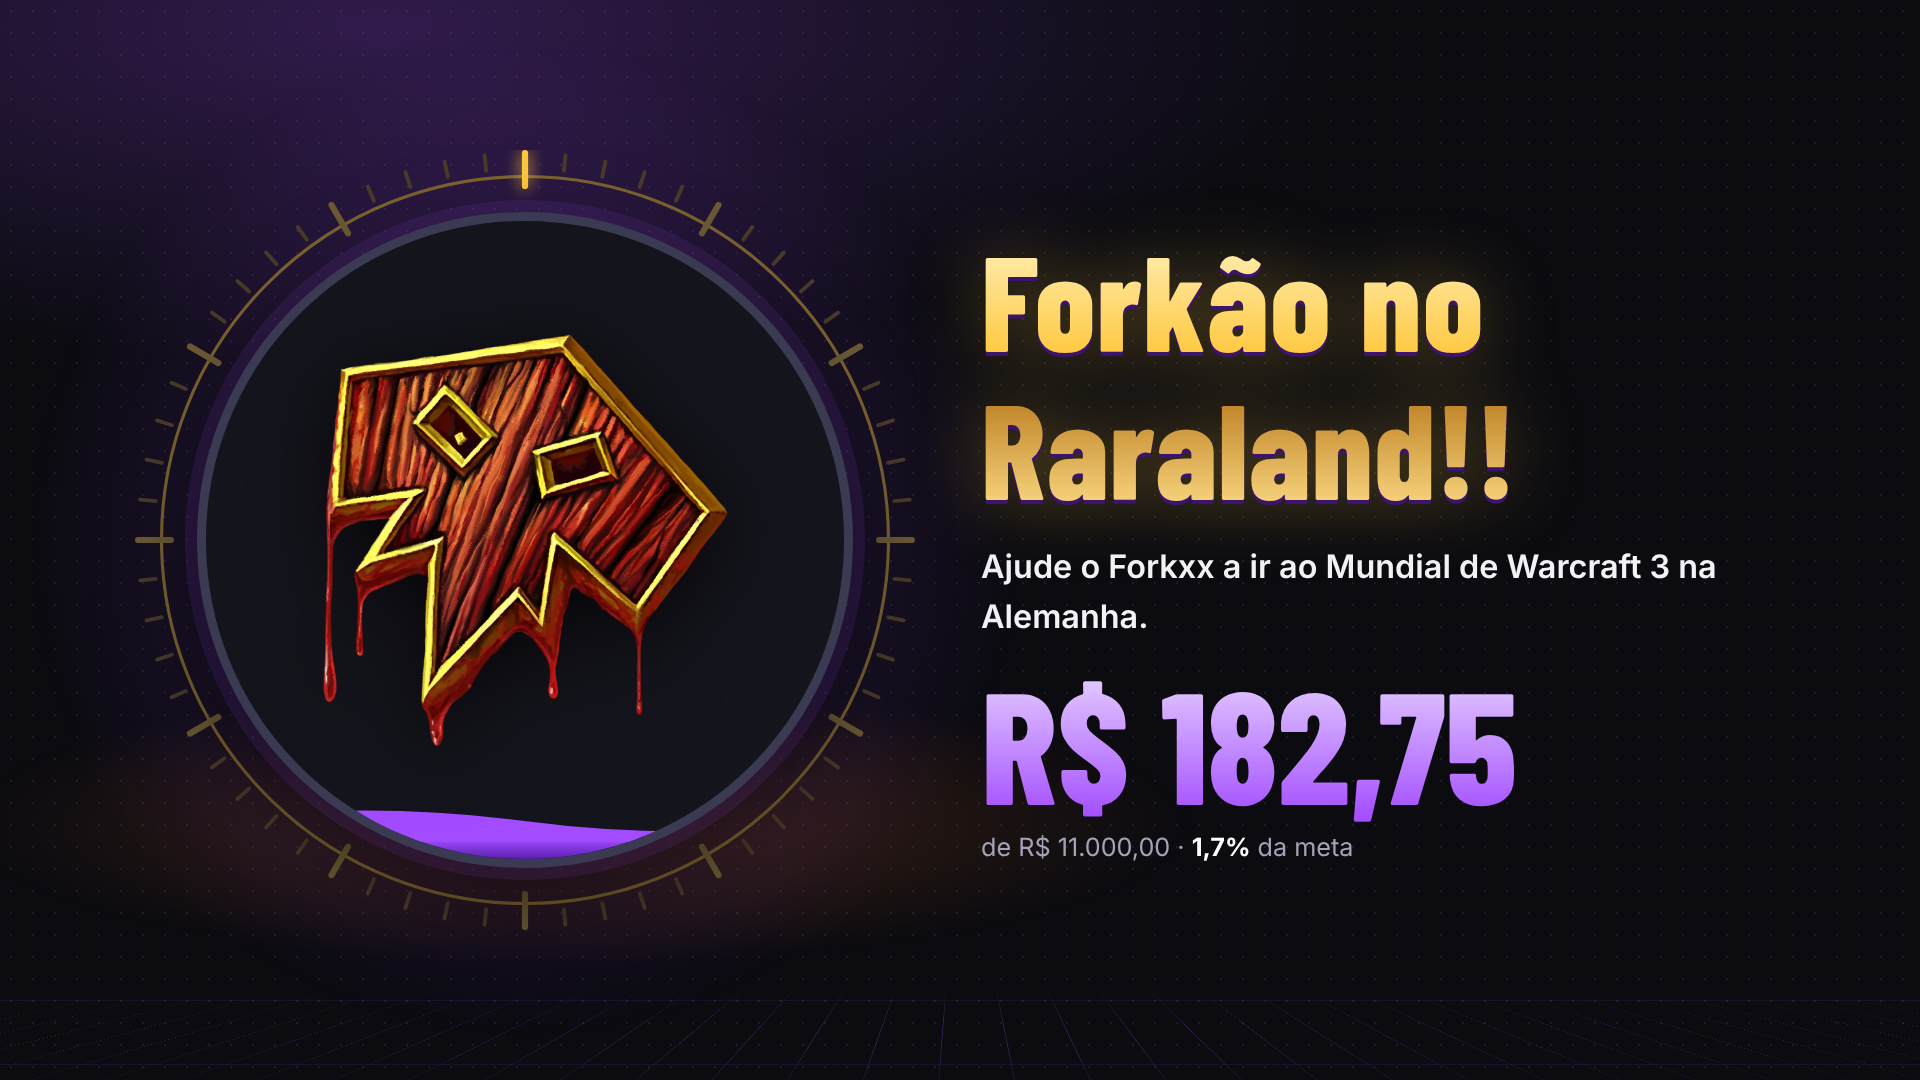
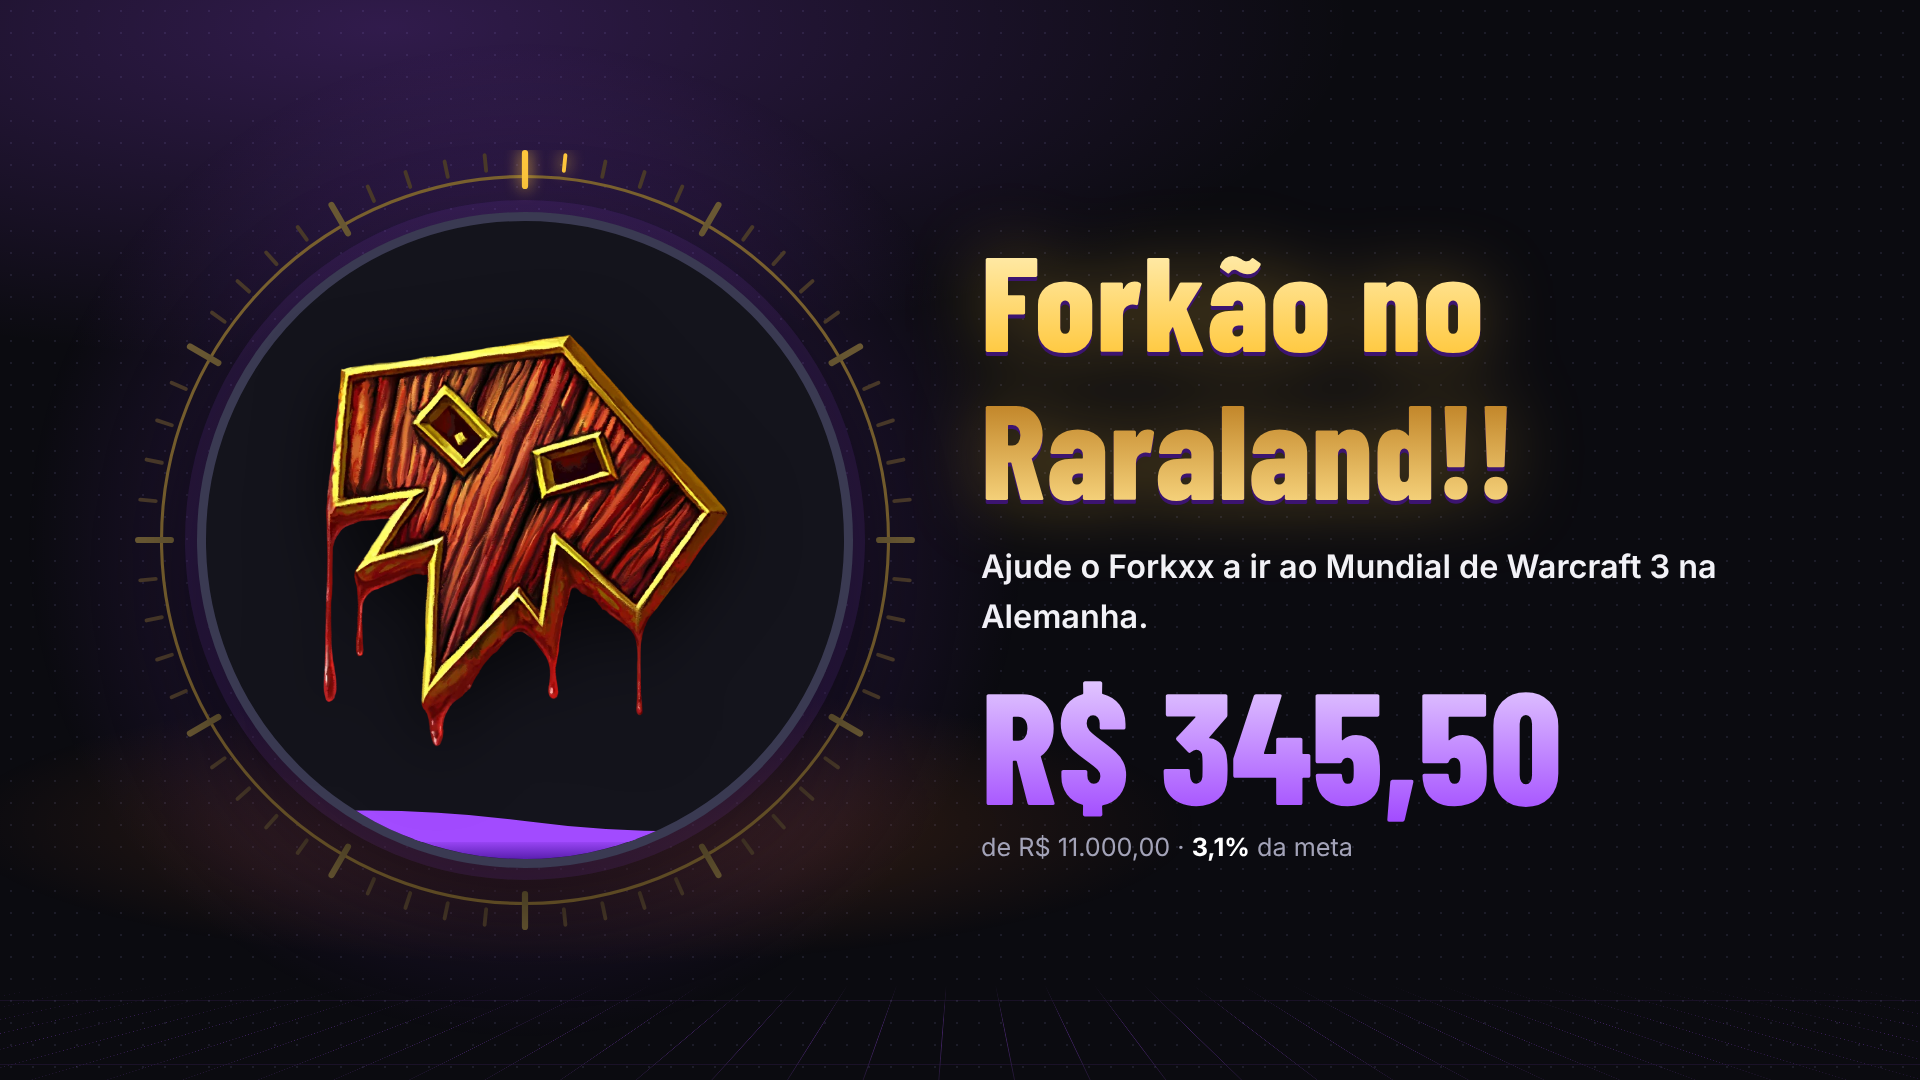
Adiciona 4 doações de 25/11 (percentual por doação) e atualiza PNGs
Doações de 25/11: andreyapyr8287 R$10, Larguei age 2 R$2, Castle blood auto R$3 (Pix na live, 85%) e Pedro Cavichio Grochocki R$150 (Mercado Pago, 100%). Campo opcional 'percentual' por apoiador; sem ele vale percentualMeta.

Claude-Session: https://claude.ai/code/session_017pUoQUTeSD6Kxc8JVXdXxC

Changed region(s): [[0.5938, 0.6417, 0.8125, 0.7944]]

diff --git a/en.html b/en.html
@@ -483,7 +483,7 @@ if(document.fonts){document.fonts.load('800 20px "Barlow Condensed"').then(drawC
 function render(d){
   var gross=(d.apoiadores||[]).reduce(function(a,x){return a+(+x.valor||0)},0);
   var share=(typeof d.percentualMeta==='number'?d.percentualMeta:100);
-  var raised=Math.round(gross*share)/100;
+  var raised=Math.round((d.apoiadores||[]).reduce(function(a,x){return a+(+x.valor||0)*(typeof x.percentual==='number'?x.percentual:share)/100},0)*100)/100;
   document.getElementById('gross').textContent=fmt(gross);
   document.querySelectorAll('[data-p=share]').forEach(function(e){e.textContent=share});
   document.querySelectorAll('[data-p=rest]').forEach(function(e){e.textContent=100-share});

diff --git a/index.html b/index.html
@@ -483,7 +483,7 @@ if(document.fonts){document.fonts.load('800 20px "Barlow Condensed"').then(drawC
 function render(d){
   var gross=(d.apoiadores||[]).reduce(function(a,x){return a+(+x.valor||0)},0);
   var share=(typeof d.percentualMeta==='number'?d.percentualMeta:100);
-  var raised=Math.round(gross*share)/100;
+  var raised=Math.round((d.apoiadores||[]).reduce(function(a,x){return a+(+x.valor||0)*(typeof x.percentual==='number'?x.percentual:share)/100},0)*100)/100;
   document.getElementById('gross').textContent=fmt(gross);
   document.querySelectorAll('[data-p=share]').forEach(function(e){e.textContent=share});
   document.querySelectorAll('[data-p=rest]').forEach(function(e){e.textContent=100-share});
